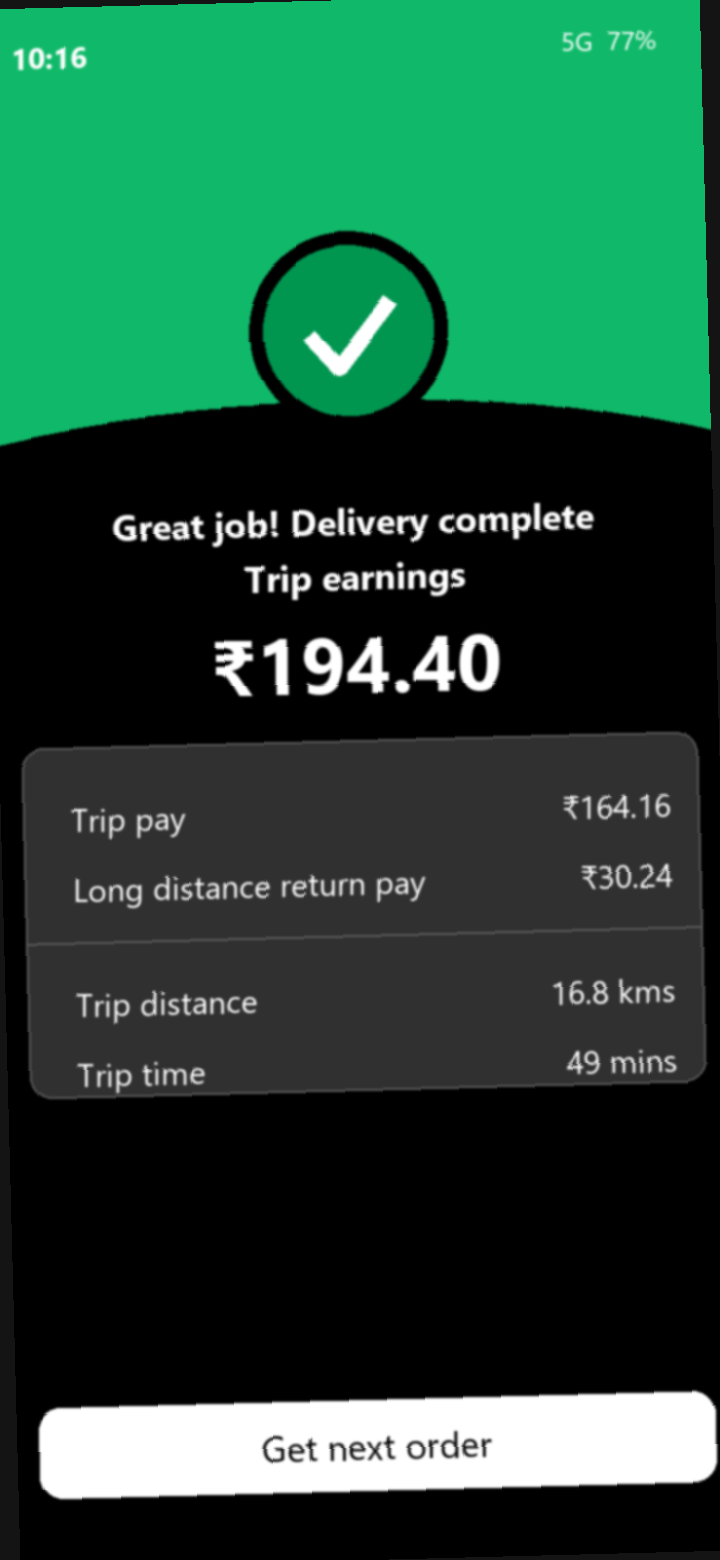
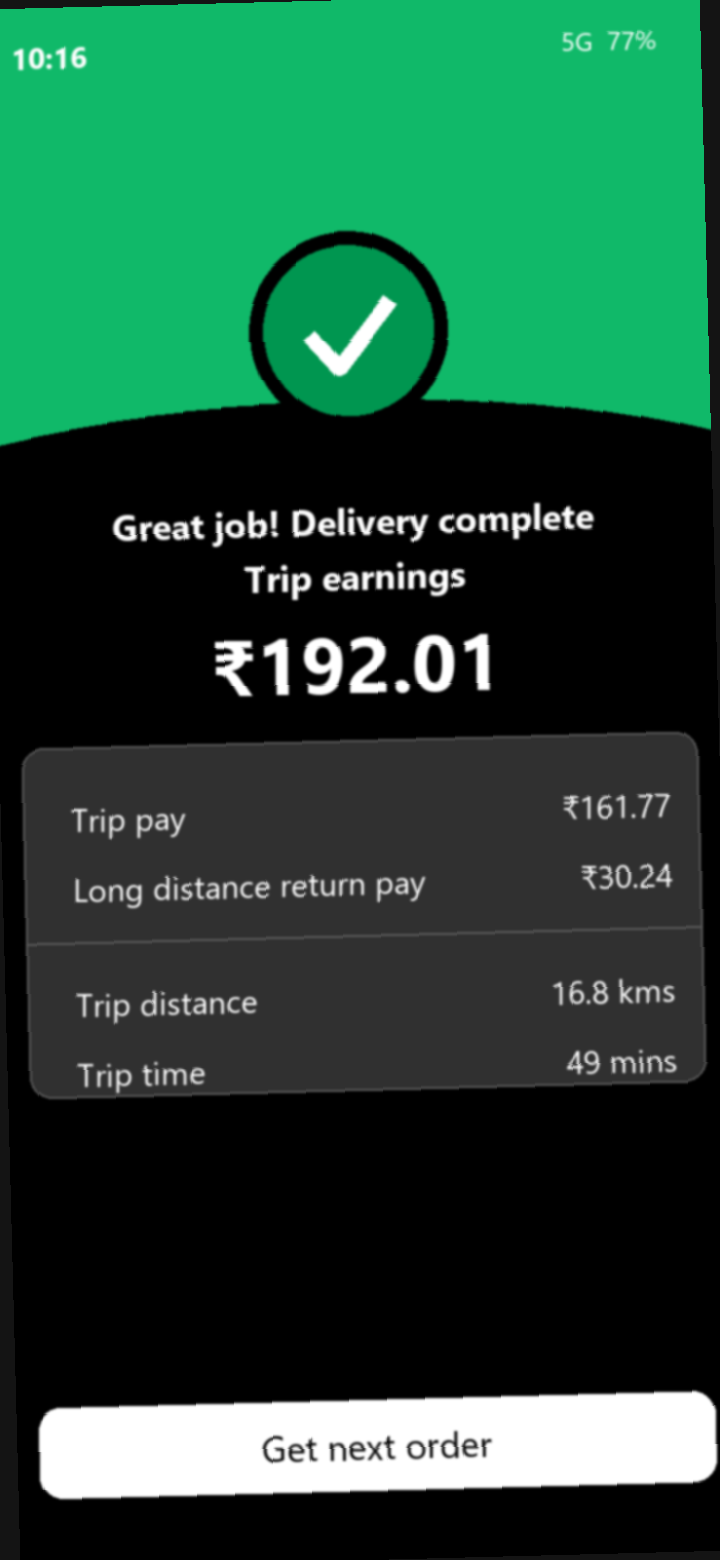
Add 8 percent noise results and OCR accuracy script

Changed region(s): [[0.4889, 0.4, 0.7028, 0.4615], [0.8556, 0.4923, 0.9472, 0.5231]]

diff --git a/eval_ocr.py b/eval_ocr.py
@@ -1,0 +1,35 @@
+"""
+eval_ocr.py -- how many screenshots did the reader get completely right?
+
+Compares data/extracted_ocr.json (what OCR read) with data/synthetic/answers.json
+(the truth). Run:  python eval_ocr.py
+"""
+import json
+
+with open("data/extracted_ocr.json", encoding="utf-8") as f:
+    read = json.load(f)
+with open("data/synthetic/answers.json", encoding="utf-8") as f:
+    truth = {r["file"]: r for r in json.load(f)}
+
+fields = {                      # name in OCR output -> name in answer key
+    "total_earnings": "shown_total",
+    "trip_pay": "shown_trip_pay",
+    "long_distance_return_pay": "shown_return_pay",
+    "distance_km": "km",
+    "trip_time_mins": "mins",
+}
+
+correct = 0
+for name, t in truth.items():
+    r = read.get(name)
+    if r is None:
+        print(f"NOT READ  {name}")
+        continue
+    wrong = [(k, r.get(k), t[v]) for k, v in fields.items() if r.get(k) != t[v]]
+    if wrong:
+        for k, got, want in wrong:
+            print(f"MISREAD   {name}: {k} read as {got}, should be {want}")
+    else:
+        correct += 1
+
+print(f"\nScreens read completely correctly: {correct} of {len(truth)}")

diff --git a/generate_data.py b/generate_data.py
@@ -26,7 +26,7 @@ PER_KM = 7.5
 PER_MIN = 0.4
 RETURN_RATE = 1.80             # rupees per km, only on long trips
 RETURN_MIN_KM = 15.0
-NOISE = 0.03                   # +-3% natural variation
+NOISE = 0.08                   # +-3% natural variation
 # ---------------------------------------------
 
 random.seed(SEED)
